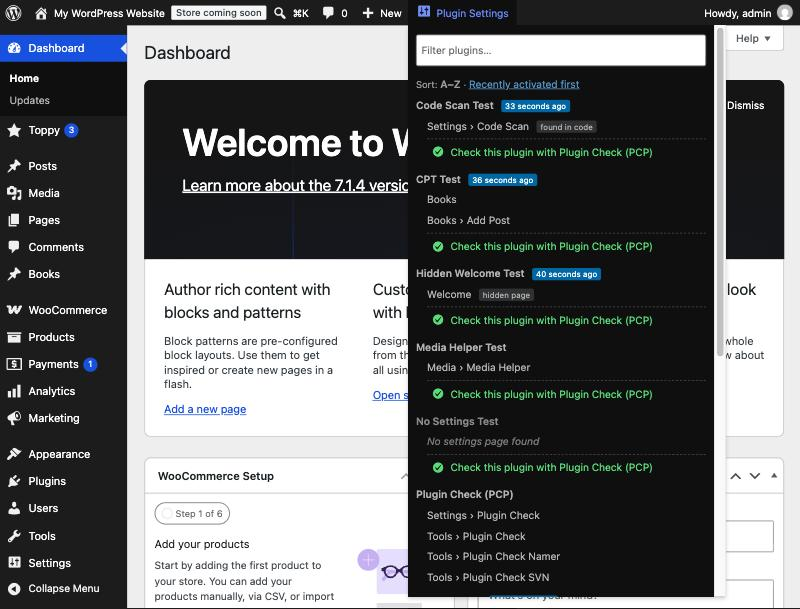
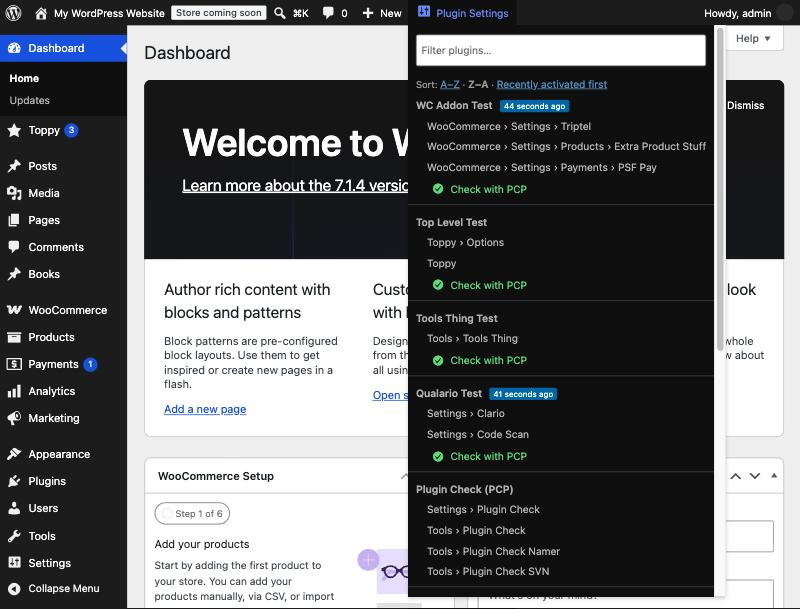
1.3.0: Z-A sort, plugin separators, "Check with PCP" label

Changed region(s): [[0.5, 0.1248, 0.875, 0.9984], [0.9688, 0.0, 1.0, 0.0312]]

diff --git a/includes/class-psf-admin-bar.php b/includes/class-psf-admin-bar.php
@@ -62,7 +62,8 @@ final class PSF_Admin_Bar {
 	 * @return string
 	 */
 	private function sort_order() {
-		return 'recent' === get_user_meta( get_current_user_id(), 'psf_sort', true ) ? 'recent' : 'alpha';
+		$sort = get_user_meta( get_current_user_id(), 'psf_sort', true );
+		return in_array( $sort, array( 'za', 'recent' ), true ) ? $sort : 'alpha';
 	}
 
 	/**
@@ -75,7 +76,8 @@ final class PSF_Admin_Bar {
 		if ( ! wp_verify_nonce( sanitize_key( wp_unslash( $_GET['psf_nonce'] ) ), 'psf_sort' ) ) {
 			return;
 		}
-		$sort = 'recent' === sanitize_key( wp_unslash( $_GET['psf_sort'] ) ) ? 'recent' : 'alpha';
+		$sort = sanitize_key( wp_unslash( $_GET['psf_sort'] ) );
+		$sort = in_array( $sort, array( 'za', 'recent' ), true ) ? $sort : 'alpha';
 		update_user_meta( get_current_user_id(), 'psf_sort', $sort );
 		wp_safe_redirect( remove_query_arg( array( 'psf_sort', 'psf_nonce' ) ) );
 		exit;
@@ -168,13 +170,15 @@ final class PSF_Admin_Bar {
 				'title'  => esc_html__( 'Sort:', 'plugin-settings-finder' ) . ' '
 					. $this->sort_link( 'alpha', __( 'A–Z', 'plugin-settings-finder' ), $sort )
 					. ' · '
+					. $this->sort_link( 'za', __( 'Z–A', 'plugin-settings-finder' ), $sort )
+					. ' · '
 					. $this->sort_link( 'recent', __( 'Recently activated first', 'plugin-settings-finder' ), $sort ),
 				'meta'   => array( 'class' => 'psf-sort' ),
 			)
 		);
 
 		// "recent" mode: recently activated on top, newest first; the rest A–Z.
-		// "alpha" mode: one A–Z list, recent plugins keep their "x ago" badge.
+		// "alpha" / "za" mode: one sorted list, recent plugins keep their "x ago" badge.
 		$recent = array();
 		foreach ( $index['plugins'] as $basename => $plugin ) {
 			if ( isset( $times[ $basename ] ) && time() - $times[ $basename ] < self::RECENT_FOR ) {
@@ -184,7 +188,11 @@ final class PSF_Admin_Bar {
 		arsort( $recent );
 		$recent = array_slice( $recent, 0, 5, true );
 
-		if ( 'alpha' === $sort ) {
+		if ( 'za' === $sort ) {
+			$index['plugins'] = array_reverse( $index['plugins'], true );
+		}
+
+		if ( 'recent' !== $sort ) {
 			foreach ( $index['plugins'] as $basename => $plugin ) {
 				$this->plugin_nodes( $bar, $basename, $plugin, isset( $recent[ $basename ] ) ? $recent[ $basename ] : null );
 			}
@@ -358,7 +366,7 @@ final class PSF_Admin_Bar {
 				array(
 					'parent' => 'psf',
 					'id'     => $id . '-pcp',
-					'title'  => '<span class="dashicons dashicons-yes-alt" aria-hidden="true"></span> ' . esc_html__( 'Check this plugin with Plugin Check (PCP)', 'plugin-settings-finder' ),
+					'title'  => '<span class="dashicons dashicons-yes-alt" aria-hidden="true"></span> ' . esc_html__( 'Check with PCP', 'plugin-settings-finder' ),
 					'href'   => admin_url( 'tools.php?page=plugin-check&plugin=' . rawurlencode( $basename ) ),
 					'meta'   => array( 'class' => 'psf-entry psf-pcp' ),
 				)
@@ -379,10 +387,12 @@ final class PSF_Admin_Bar {
 			'#wpadminbar #wp-admin-bar-psf > .ab-sub-wrapper{max-height:calc(100vh - 48px);overflow-y:auto;min-width:340px}'
 			. '#wpadminbar #wp-admin-bar-psf .psf-section > .ab-item{font-size:11px;text-transform:uppercase;letter-spacing:.04em;opacity:.7;margin-top:6px}'
 			. '#wpadminbar #wp-admin-bar-psf .psf-plugin > .ab-item{font-weight:600;margin-top:4px}'
+			. '#wpadminbar #wp-admin-bar-psf .psf-plugin{border-top:1px solid rgba(240,246,252,.22);margin-top:6px;padding-top:4px}'
+			. '#wpadminbar #wp-admin-bar-psf .psf-sort + .psf-plugin,#wpadminbar #wp-admin-bar-psf .psf-section + .psf-plugin{border-top:0;margin-top:0;padding-top:0}'
 			. '#wpadminbar #wp-admin-bar-psf .psf-plugin-empty > .ab-item{opacity:.75}'
 			. '#wpadminbar #wp-admin-bar-psf .psf-entry > .ab-item{padding-left:24px}'
 			. '#wpadminbar #wp-admin-bar-psf .psf-none > .ab-item{font-style:italic;opacity:.65}'
-			. '#wpadminbar #wp-admin-bar-psf .psf-pcp{margin:3px 10px 8px 24px;border-top:1px dashed rgba(240,246,252,.25);padding-top:3px}'
+			. '#wpadminbar #wp-admin-bar-psf .psf-pcp{margin:2px 10px 6px 24px}'
 			. '#wpadminbar #wp-admin-bar-psf .psf-pcp > .ab-item{padding-left:0;color:#68de7c}'
 			. '#wpadminbar #wp-admin-bar-psf .psf-pcp > .ab-item:hover,#wpadminbar #wp-admin-bar-psf .psf-pcp > .ab-item:focus{color:#fff;background:#00a32a}'
 			. '#wpadminbar #wp-admin-bar-psf .psf-pcp .dashicons{font:normal 16px/1 dashicons;vertical-align:-3px;margin:0 4px 0 6px;color:inherit}'

diff --git a/plugin-settings-finder.php b/plugin-settings-finder.php
@@ -2,7 +2,7 @@
 /**
  * Plugin Name:       Plugin Settings Finder
  * Description:       Adds an admin bar dropdown that lists every active plugin with direct links to its settings pages, wherever the plugin put them: top level, Settings, Tools, Media, WooCommerce menus, WooCommerce settings tabs and sections, hidden pages.
- * Version:           1.2.0
+ * Version:           1.3.0
  * Requires at least: 6.0
  * Requires PHP:      7.4
  * Author:            Marcel Tannich
@@ -17,7 +17,7 @@ if ( ! defined( 'ABSPATH' ) ) {
 	exit;
 }
 
-define( 'PSF_VERSION', '1.2.0' );
+define( 'PSF_VERSION', '1.3.0' );
 define( 'PSF_PLUGIN_FILE', __FILE__ );
 define( 'PSF_PLUGIN_DIR', plugin_dir_path( __FILE__ ) );
 

diff --git a/README.md b/README.md
@@ -22,8 +22,8 @@ Plugin Settings Finder solves that. Open the **Plugin Settings** dropdown and ev
 ## Features
 
 - **Every location covered:** top-level menus, submenus anywhere, hidden pages, post type and taxonomy screens, WooCommerce settings tabs and sections, payment gateways, shipping methods, integrations and emails.
-- **Plugin Check (PCP) shortcut:** when [Plugin Check](https://wordpress.org/plugins/plugin-check/) is active, every plugin gets a highlighted *Check this plugin with Plugin Check (PCP)* link that opens PCP with that plugin preselected.
-- **Sort switch:** A to Z (default) or recently activated first, saved per user. Recently activated plugins get a "x minutes ago" badge.
+- **Plugin Check (PCP) shortcut:** when [Plugin Check](https://wordpress.org/plugins/plugin-check/) is active, every plugin gets a highlighted *Check with PCP* link that opens PCP with that plugin preselected.
+- **Sort switch:** A to Z (default), Z to A, or recently activated first, saved per user. Each plugin is its own segment, separated by a line. Recently activated plugins get a "x minutes ago" badge.
 - **Filter field** to narrow the list by plugin name or page.
 - **One click to settings:** clicking a plugin name opens the page that looks most like its settings.
 - **Less noise:** Elementor, WooCommerce and Contact Form 7 are hidden by default, because they are installed almost everywhere. Their extensions are still listed.
